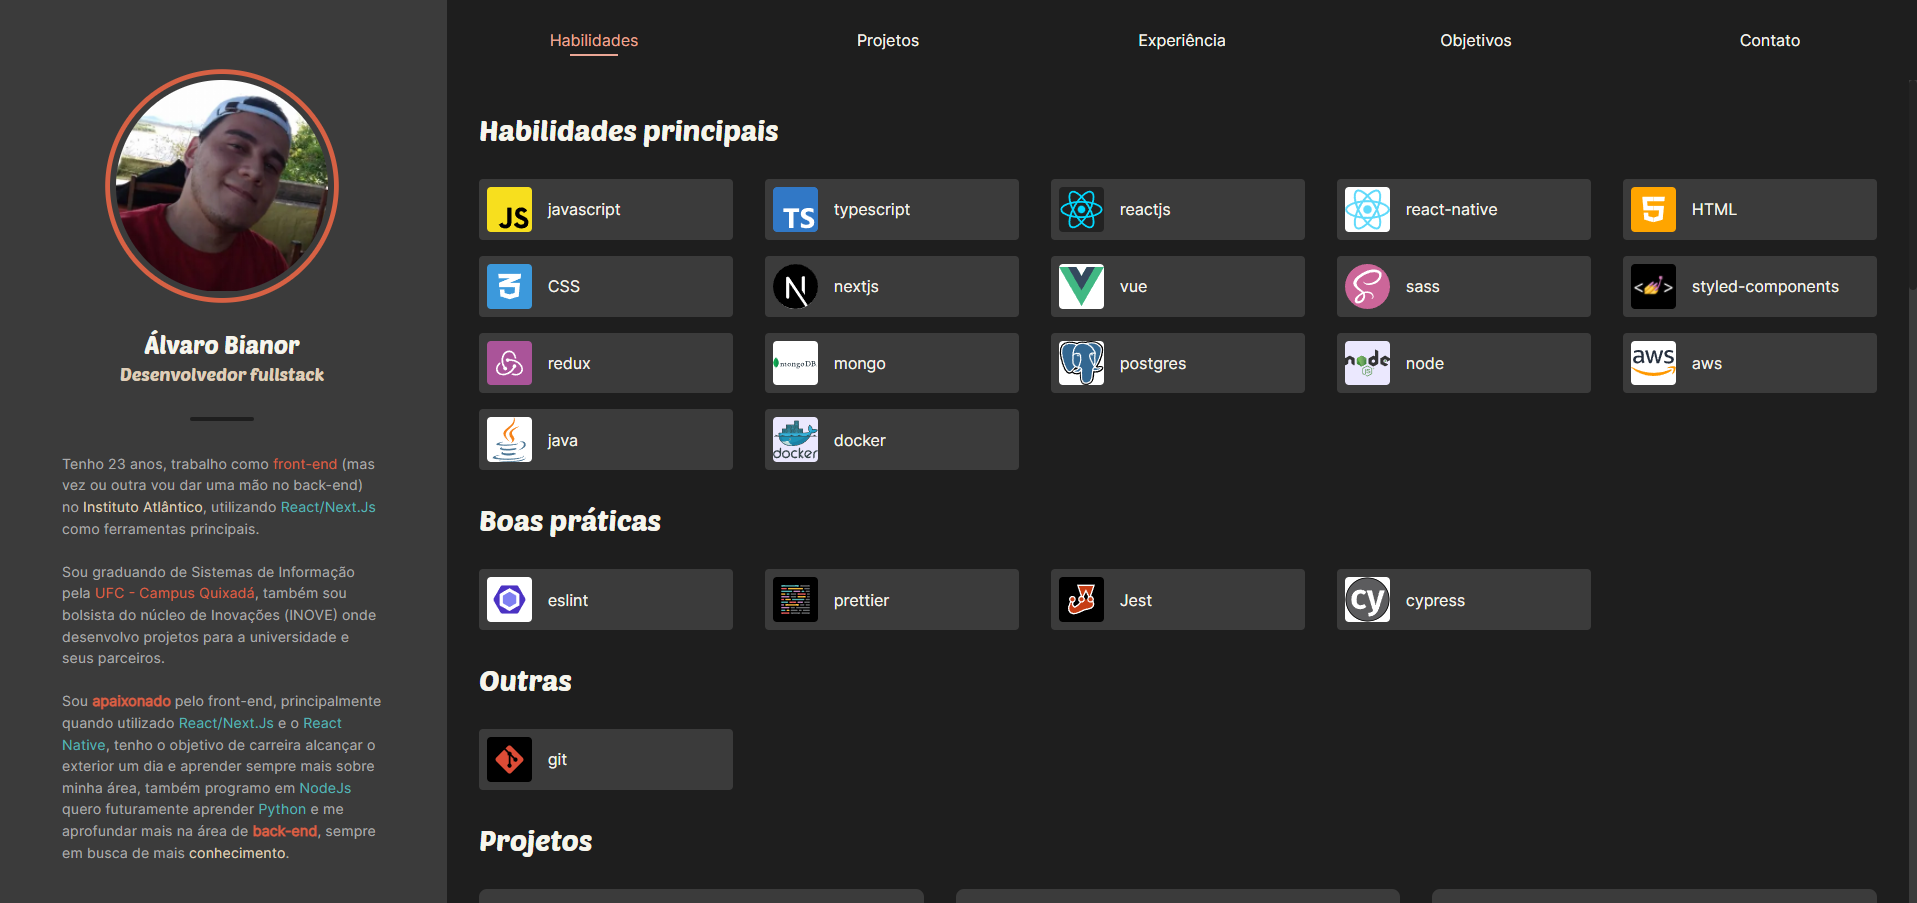
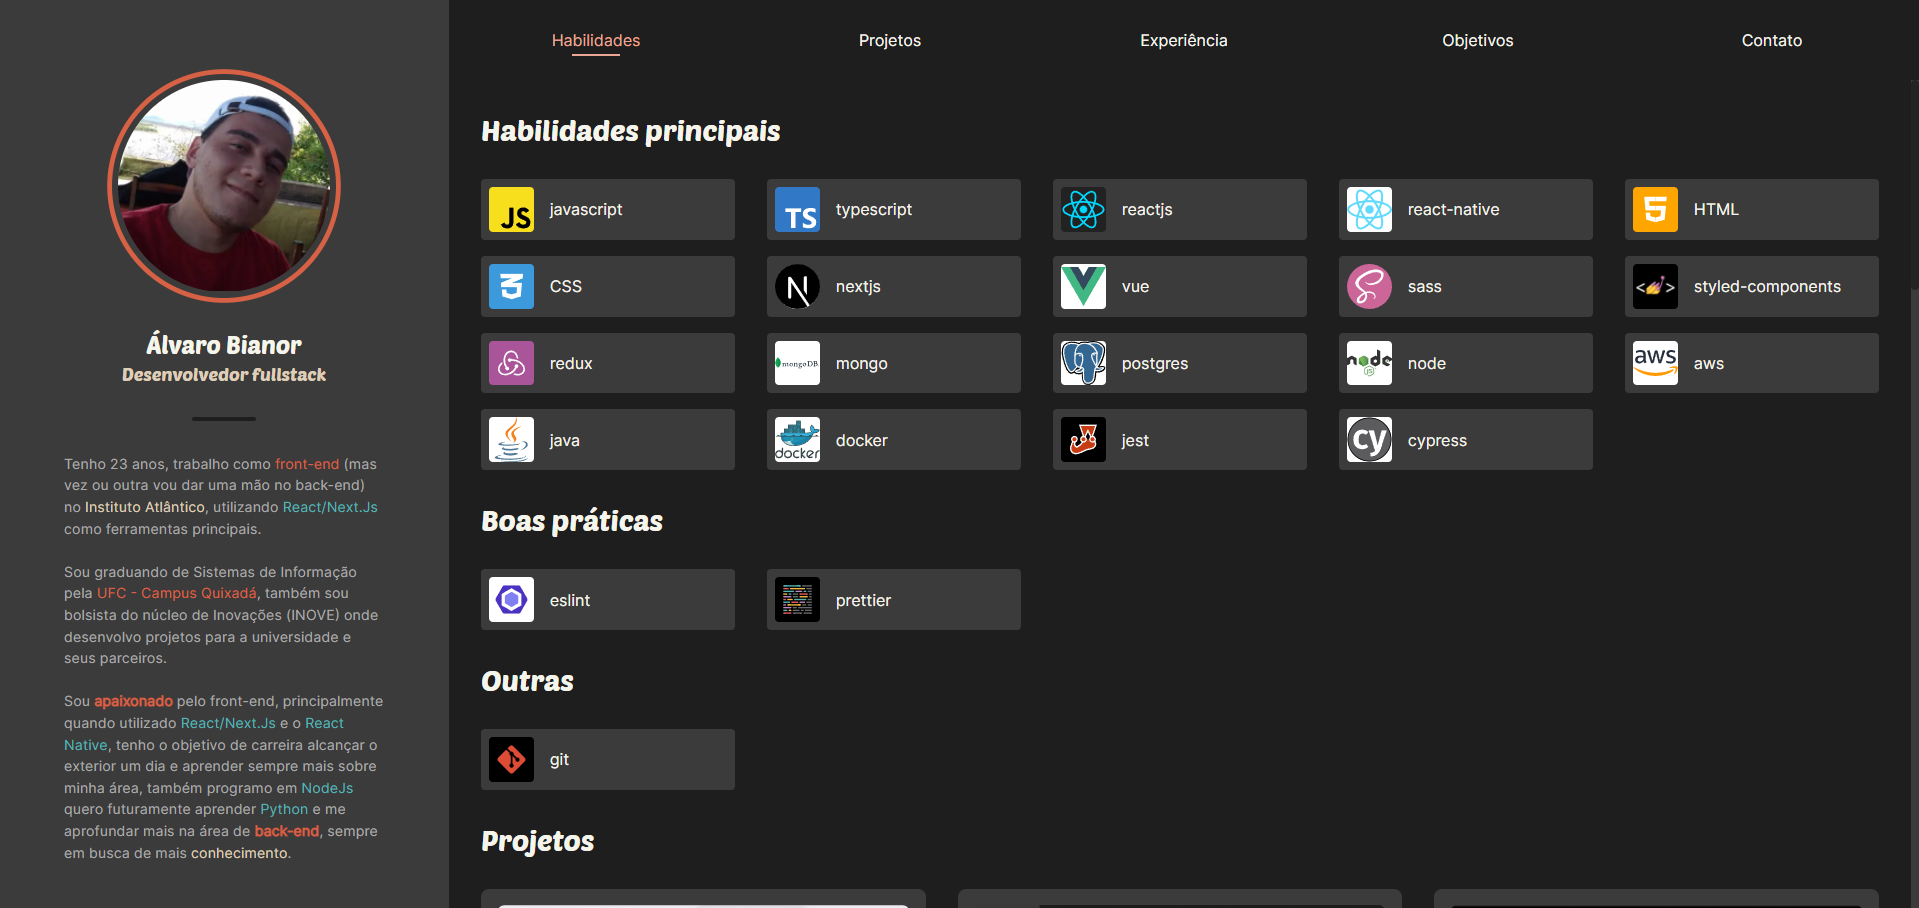
update some infos

diff --git a/src/data/skills.ts b/src/data/skills.ts
@@ -17,14 +17,14 @@ export const MainSkillsData: skillType[] = [
   { id: 14, skill: `node`, background: `#fff` },
   { id: 15, skill: `aws`, background: `#fff` },
   { id: 16, skill: `java`, background: `#fff` },
-  { id: 17, skill: `docker`, background: `#fff` }
+  { id: 17, skill: `docker`, background: `#fff` },
+  { id: 18, skill: `jest`, background: `#000` },
+  { id: 19, skill: `cypress`, background: `#fff` }
 ]
 
 export const GoodSkillsData: skillType[] = [
   { id: 1, skill: `eslint`, background: `#fff` },
-  { id: 2, skill: `prettier`, background: `#000` },
-  { id: 3, skill: `jest`, background: `#000` },
-  { id: 4, skill: `cypress`, background: `#fff` }
+  { id: 2, skill: `prettier`, background: `#000` }
 ]
 
 export const OtherSkillsData: skillType[] = [
